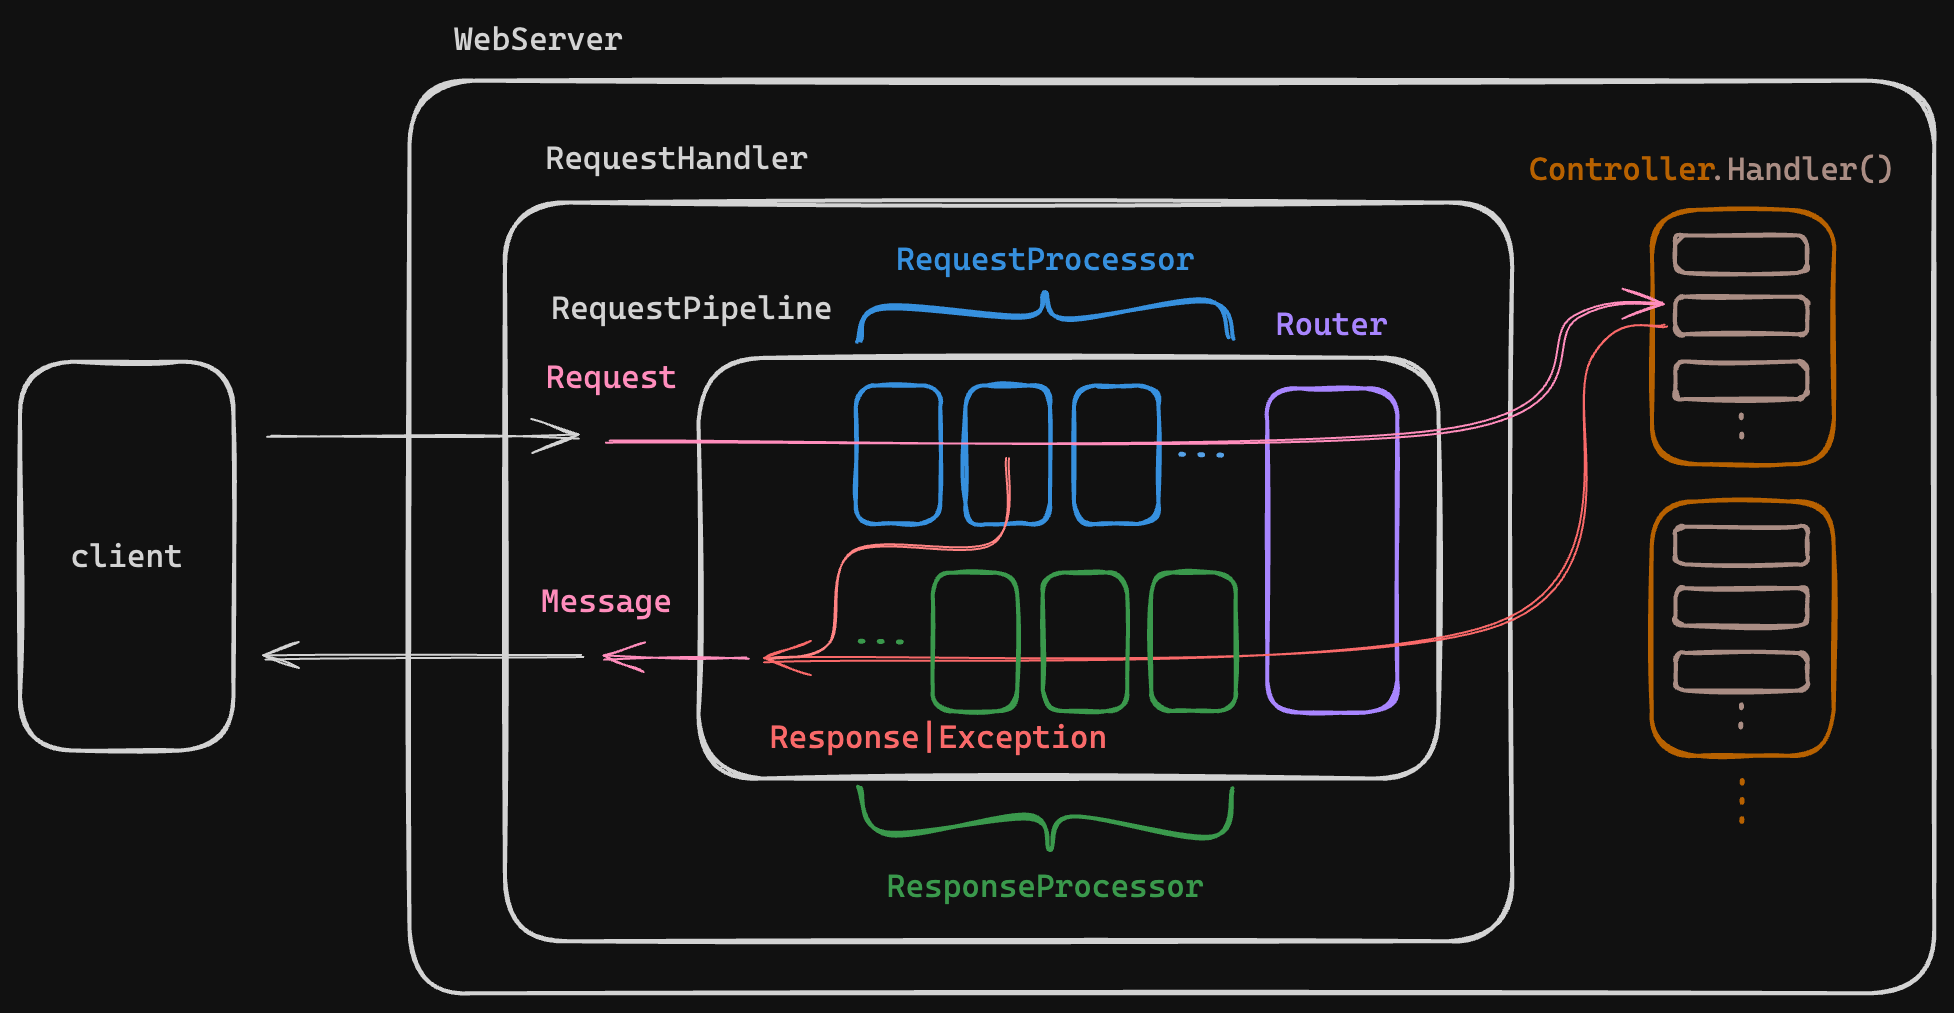
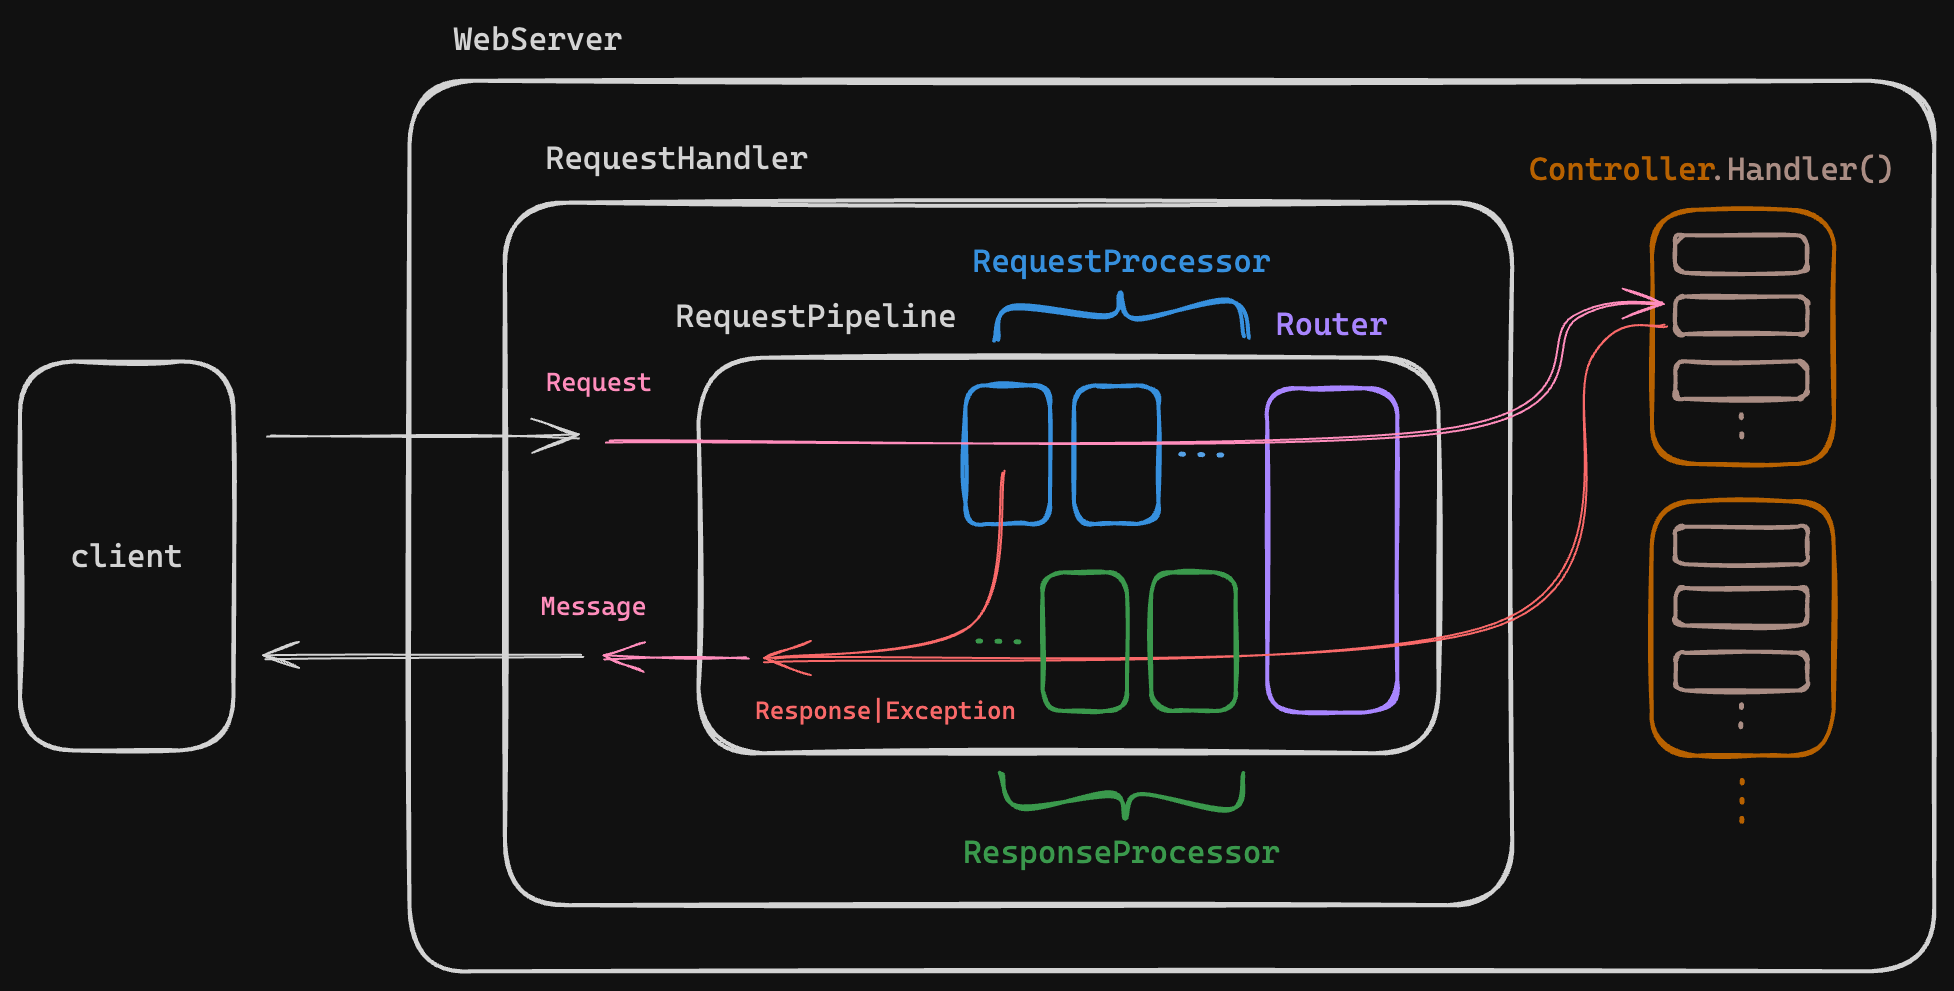
docs: WAS 구조 이미지 수정, 내용 수정. 미들웨어에서 요청, 응답 프로세서로 수정

diff --git a/README.md b/README.md
@@ -18,7 +18,7 @@
 - [RequestHandler](https://github.com/thecloer/softeerbootcamp-3rd-be-was/blob/thecloer/src/main/java/webserver/RequestHandler.java):
   클라이언트의 요청으로 부터 `Request` 객체를 생성하고 최종 응답을 클라이언트에게 전송
 - [RequestPipeline](https://github.com/thecloer/softeerbootcamp-3rd-be-was/blob/thecloer/src/main/java/webserver/RequesetPipline.java):
-  요청이에서 부터 응답까지의 파이프라인, 요청은 등록된 미들웨어들을 거쳐 컨트롤러까지 도달
+  요청으로부터 응답이 생성되기까지의 순서를 담당하는 파이프라인, 요청은 등록된 프로세서들(`RequestProcessor`, `ResponseProcessor`)을 거쳐 컨트롤러까지 도달
 - [Router](https://github.com/thecloer/softeerbootcamp-3rd-be-was/blob/thecloer/src/main/java/webserver/Router.java):
   요청과 컨트롤러의 핸들러를 매핑
 - [Controller](https://github.com/thecloer/softeerbootcamp-3rd-be-was/tree/thecloer/src/main/java/controller): 요청에 대한 메인
